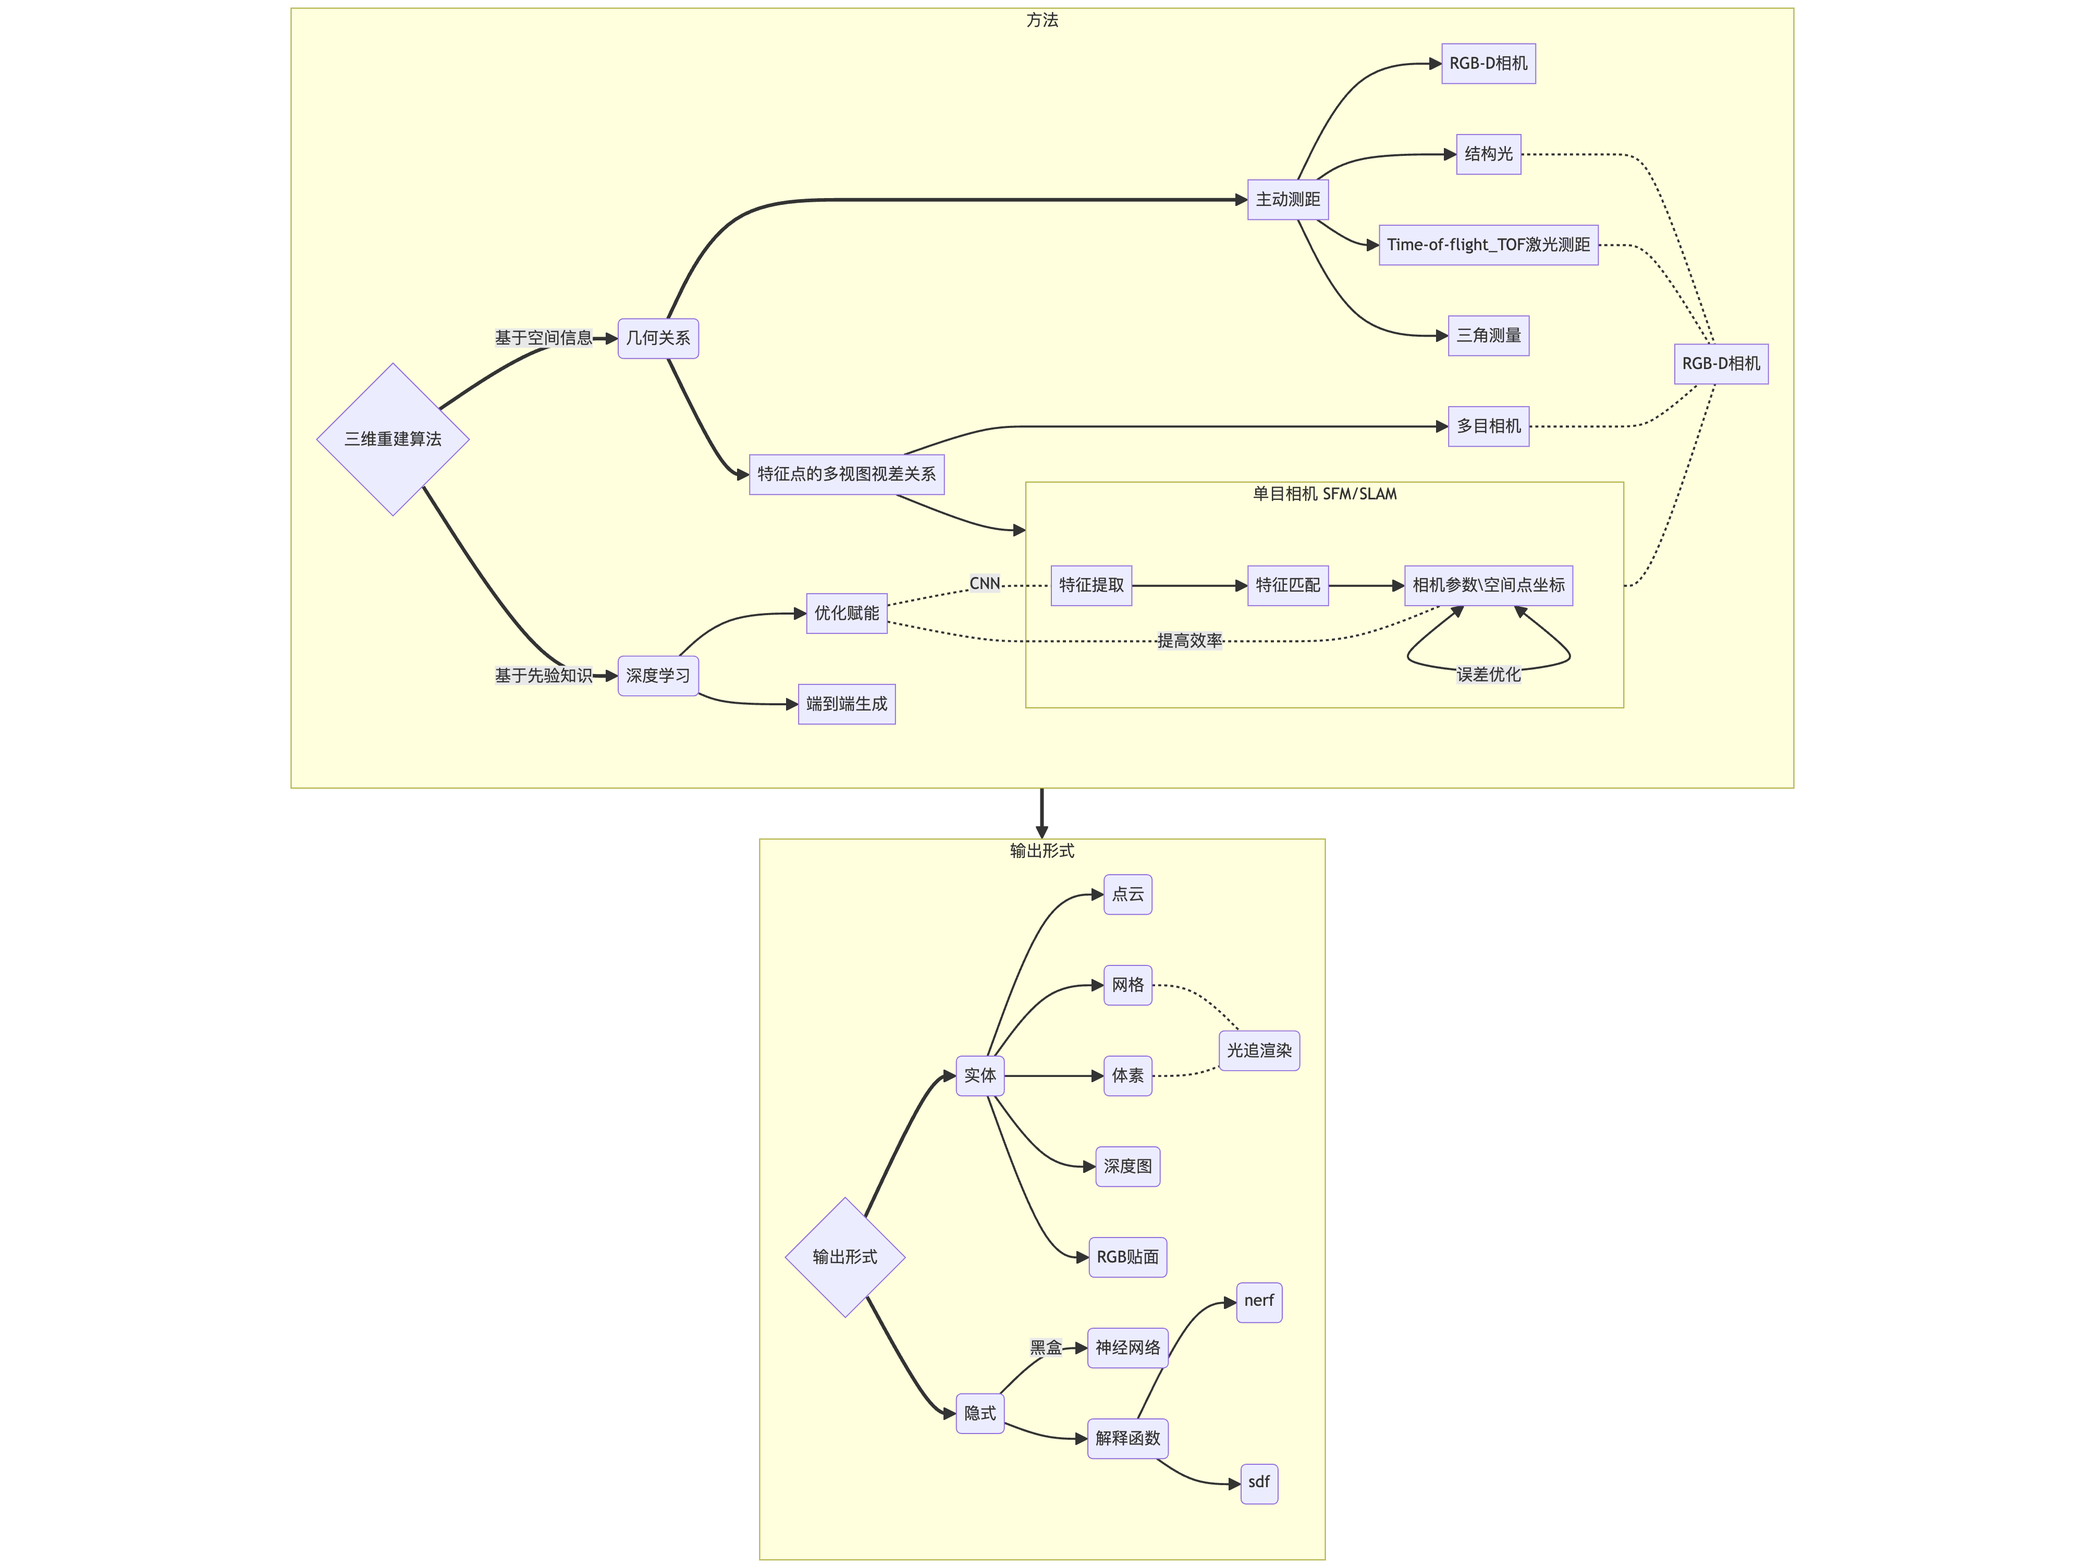
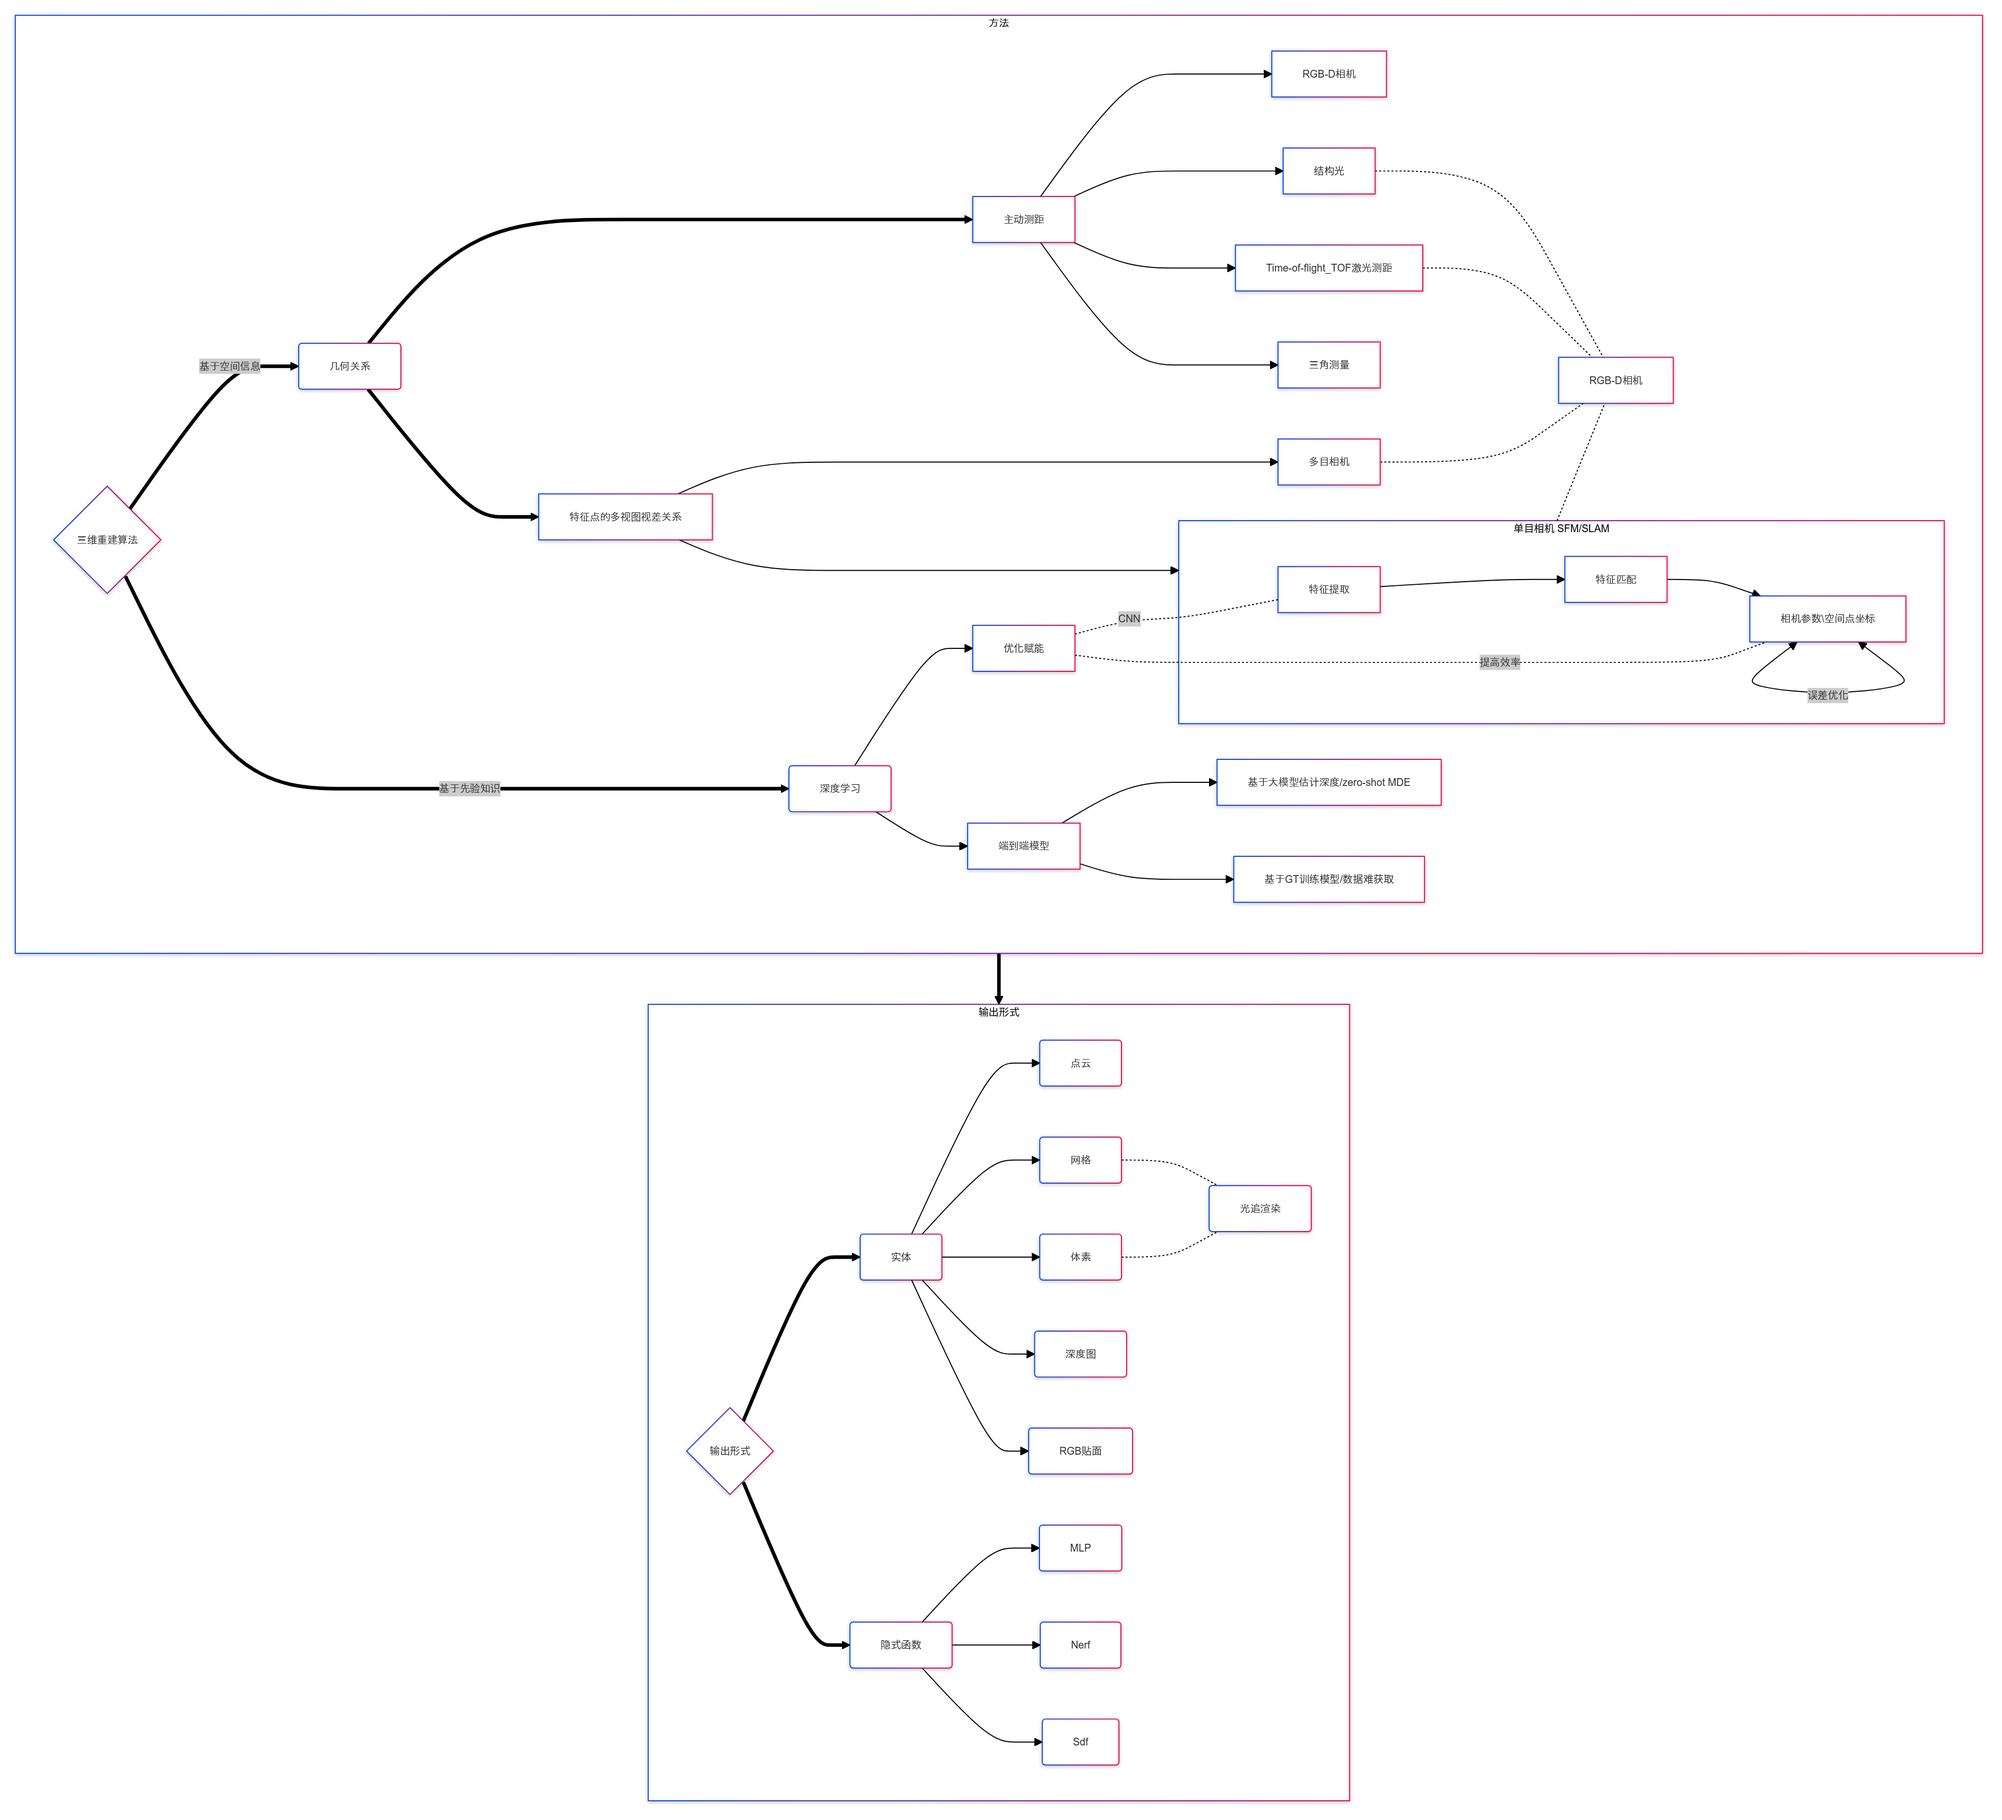
update

diff --git a/_posts/Computer vision/2024-08-13-endoSLAMoutline.md b/_posts/Computer vision/2024-08-13-endoSLAMoutline.md
@@ -16,7 +16,7 @@ typora-root-url: ../..
 
 ### Relative work
 
-![mermaid-diagram-2024-08-15-184011](/public/upload/endo/endo10.png)
+![mermaid-diagram-2024-08-15-184011](/public/upload/endo/endo10.svg)
 
 <div style="text-align: center;">
     <img src="/public/upload/endo/endo7.png" width="300"/>
